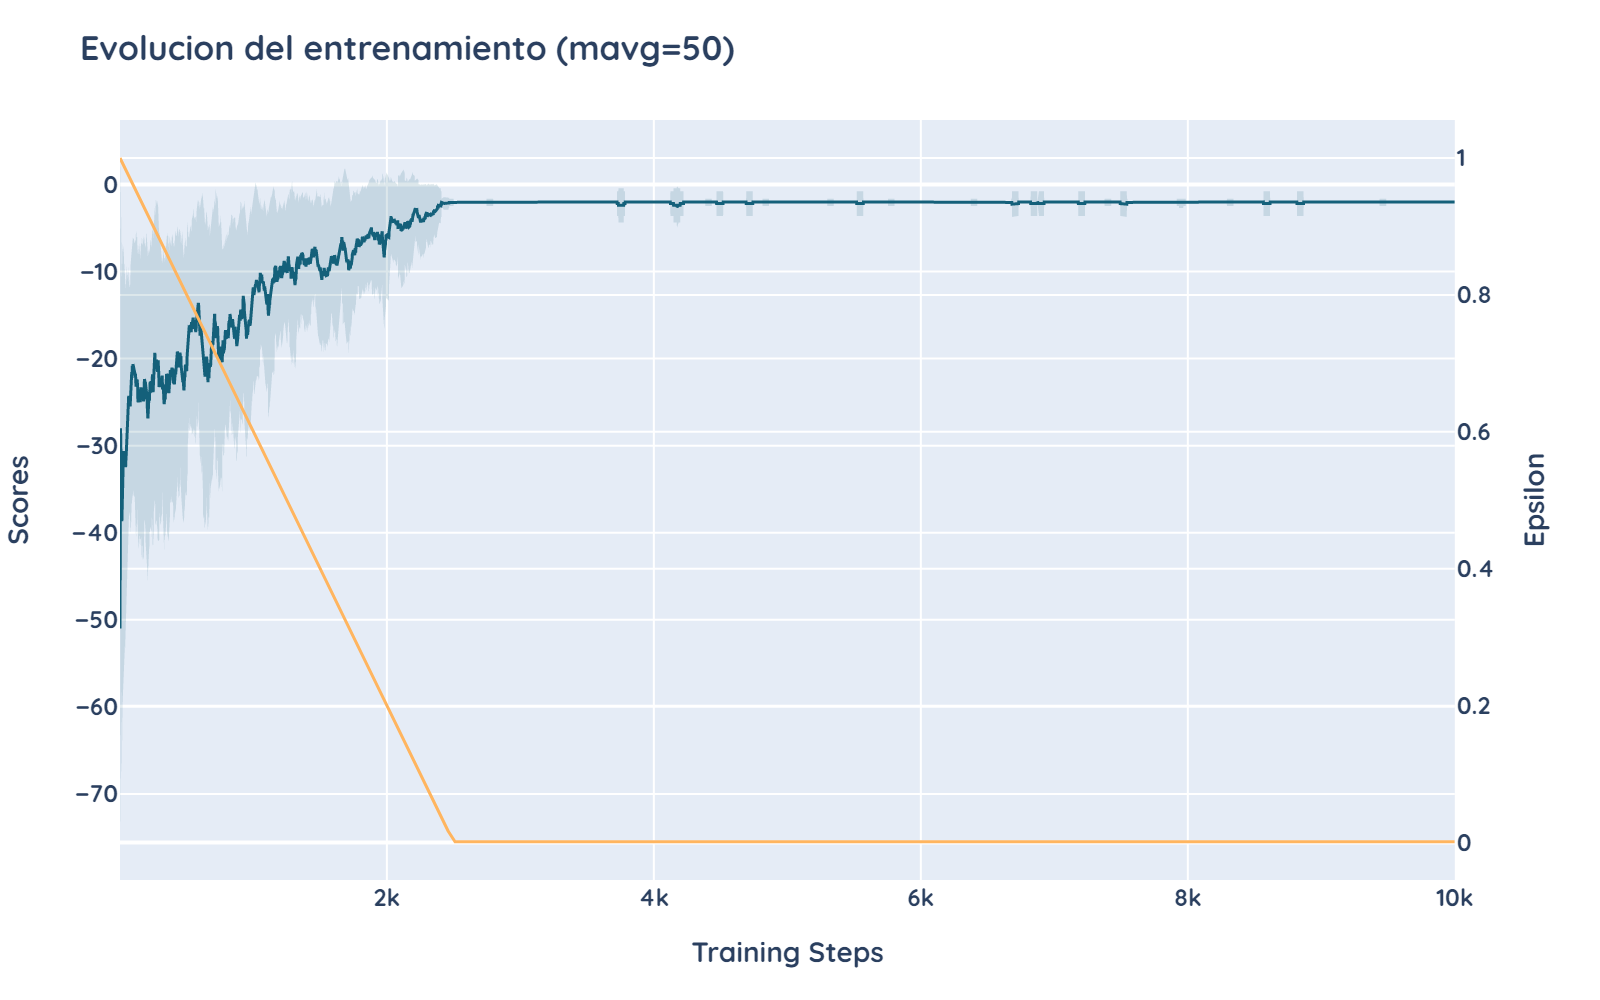
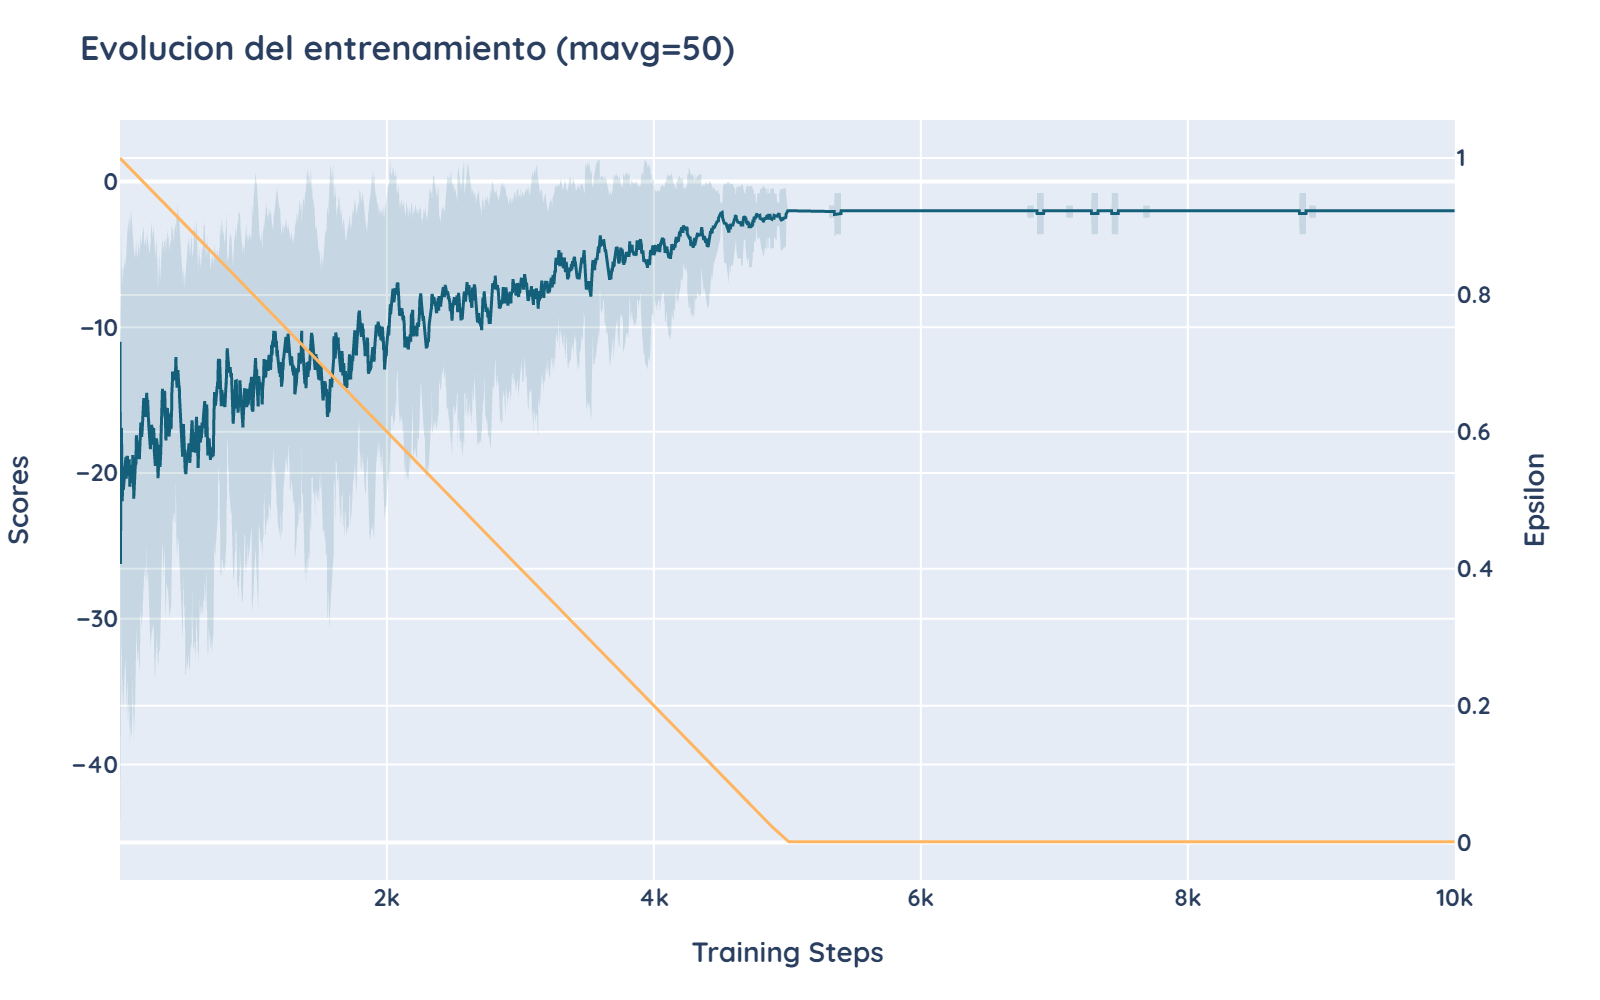
Correccion de recompensas que inferian error en ciertos escenarios

diff --git a/modelo_rl/modelo_rl/main.py b/modelo_rl/modelo_rl/main.py
@@ -37,7 +37,7 @@ def get_excess(links):
     return excesos, disponibles
 
 
-def solve_congestion(links, path, debug=False, segments=100, epoch=1000) -> (list, list, list, list, str):
+def solve_congestion(links, path, debug=False, segments=100, epoch=5000) -> (list, list, list, list, str):
     # === Validacion inicial
     exceso, capacidad_disponible = get_excess(links)
 
@@ -49,7 +49,7 @@ def solve_congestion(links, path, debug=False, segments=100, epoch=1000) -> (lis
         # === Discount farsighted, futuras recompensas tienen el mismo peso que las actuales, epsilon random en un inicio, greedy despues
         save_links(links, path)
         env = QNEnv(links=links)
-        agent = QNAgent(env=env, epsilon=1.0, eps_min=0.001, eps_decay=0.25, lr=0.1, discount=1.0)
+        agent = QNAgent(env=env, epsilon=1.0, eps_min=0.001, eps_decay=0.5, lr=0.1, discount=1.0)
         return agent.learn(path, debug=debug, segments=segments, epoch=epoch)
 
 

diff --git a/modelo_rl/modelo_rl/examples/modulo.py b/modelo_rl/modelo_rl/examples/modulo.py
@@ -23,7 +23,7 @@ for i in range(100):
                          {'id': 'gye2-port1', 'bw': 19, 'congestionado': False, 'region': 'gye', 'capacidad': 200},
                          {'id': 'gye3-port1', 'bw': 19, 'congestionado': False, 'region': 'gye', 'capacidad': 100}
                          ])
-    acciones, scores, _, _, _ = modelo_rl.solve_congestion(ejemplo2, path, debug=False, epoch=10000)
+    acciones, scores, _, _, _ = modelo_rl.solve_congestion(ejemplo2, path, debug=False, epoch=5000)
     last_scores.append(scores[-1])
     i += 1
     logger.info(f"Round {i}")
